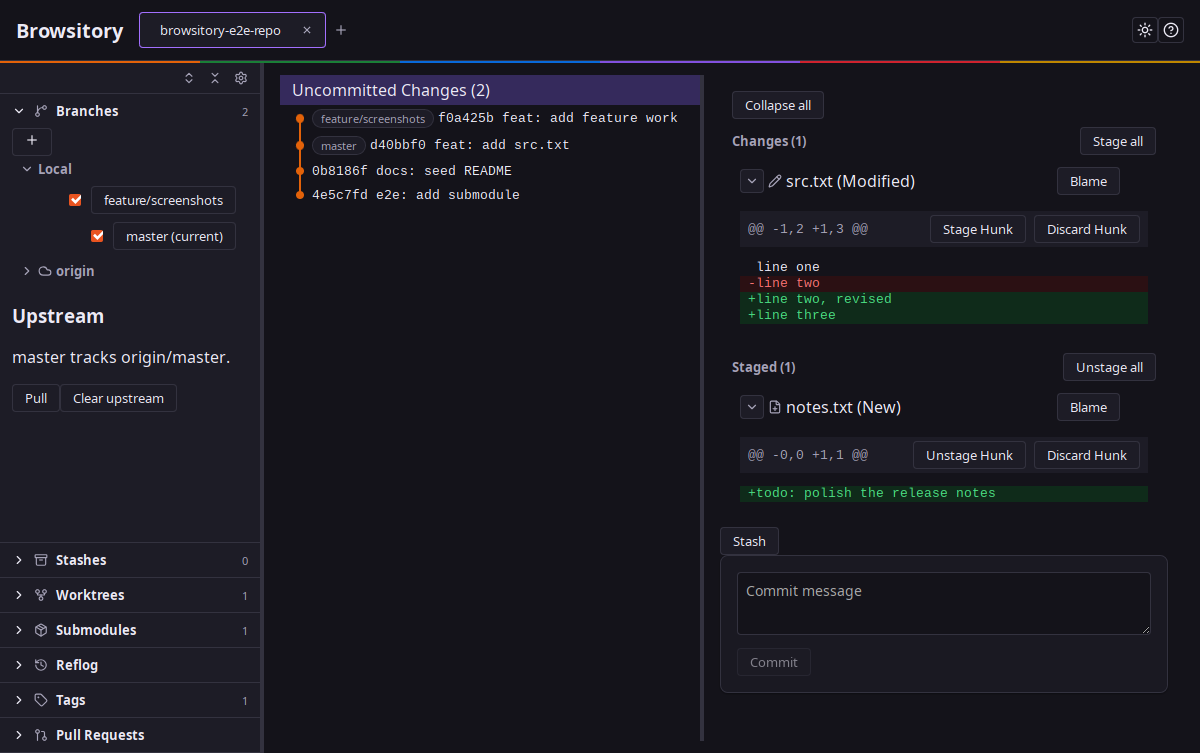
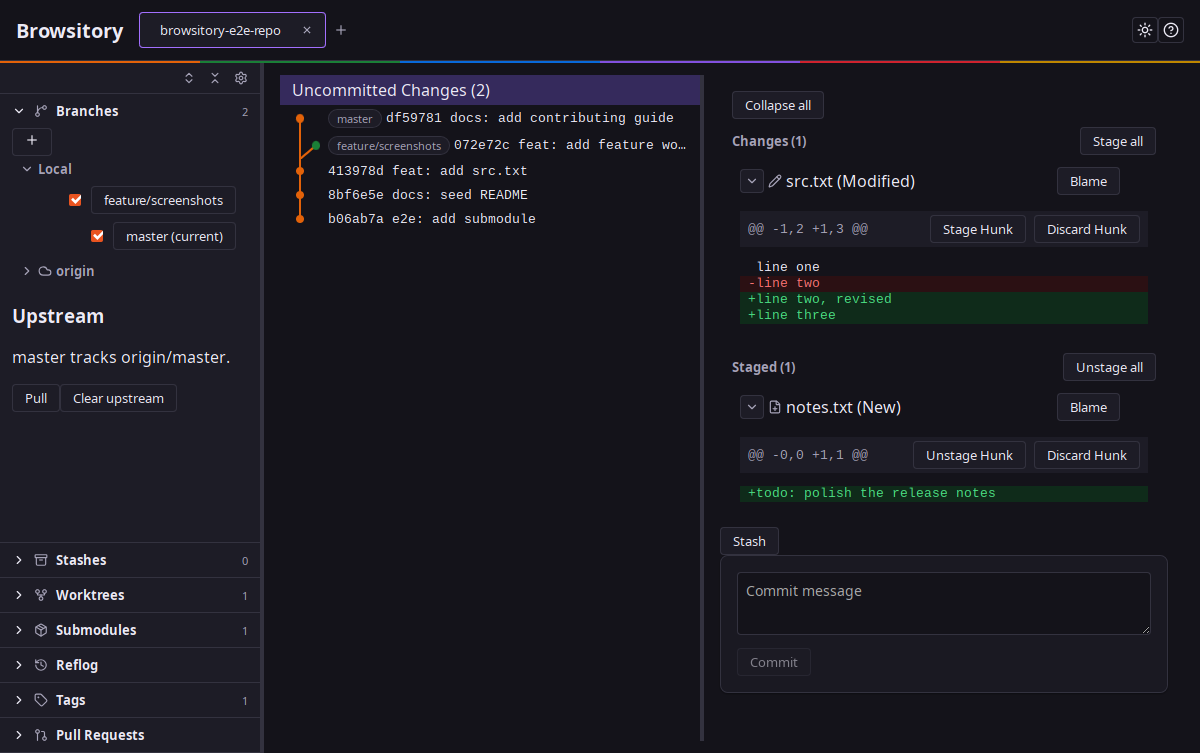
fix(frontend): keep commit-graph lane lines unbroken across forks
Three compounding bugs in CommitLaneGraphic: a lane-shifting connector
could be visually cut by a later-painted unrelated pass-through line,
a pass-through lane's straight continuation was dropped whenever
another commit's own connector happened to land on the same lane, and
splitting a straight pass-through into two segments at the row's
midpoint could leave a hairline rendering seam. Paint connectors last
and draw each non-own pass-through lane as one unbroken line instead.

Also gives the docs screenshot fixture a real fork (master advances
past the branch point too, instead of just being behind) and
regenerates docs/assets/*.png against the fix.

Claude-Session: https://claude.ai/code/session_01ShnM3w6NLLwfHoAeyDG5dL

Changed region(s): [[0.2467, 0.1527, 0.555, 0.3054]]

diff --git a/frontend/src/components/CommitLaneGraphic.test.tsx b/frontend/src/components/CommitLaneGraphic.test.tsx
@@ -96,6 +96,63 @@ describe("CommitLaneGraphic", () => {
     expect(circle?.getAttribute("opacity")).toBe("0.25");
   });
 
+  it("paints a lane-shifting connector line on top of an untouched pass-through line it crosses", () => {
+    // Own lane 0 connects down to lane 2, diagonally crossing lane 1's column. Lane 1 is an
+    // unrelated branch just passing through (no connection of its own here) so it also draws a
+    // plain vertical line through the same row. SVG paints later siblings on top of earlier
+    // ones with no blending, so whichever line is later in DOM order wins visually at the
+    // crossing point. The vertical pass-through must not be allowed to cut the diagonal in two.
+    const layout: CommitLayout = {
+      commitId: "a",
+      lane: 0,
+      parentConnections: [{ parentId: "p", lane: 2 }],
+      passThroughLanes: [0, 1, 2],
+    };
+
+    const { container } = render(<CommitLaneGraphic layout={layout} totalLanes={3} />);
+
+    const lines = Array.from(container.querySelectorAll("line"));
+    const diagonalIndex = lines.findIndex((line) => line.getAttribute("x1") !== line.getAttribute("x2"));
+    const untouchedLane1Index = lines.findIndex(
+      (line) =>
+        line.getAttribute("x1") === line.getAttribute("x2") &&
+        line.getAttribute("x1") === String(1 * 16 + 8) &&
+        line.getAttribute("y1") === "0" &&
+        line.getAttribute("y2") === "24",
+    );
+
+    expect(diagonalIndex).toBeGreaterThanOrEqual(0);
+    expect(untouchedLane1Index).toBeGreaterThanOrEqual(0);
+    expect(diagonalIndex).toBeGreaterThan(untouchedLane1Index);
+  });
+
+  it("draws an unrelated lane's pass-through as one unbroken line, not two segments meeting at the row's midpoint", () => {
+    // Lane 0 is another branch waiting on a parent this row's own commit (lane 1) also happens
+    // to connect to (a fork: two children of the same parent). Splitting lane 0's pass-through
+    // into an upper (0..mid) and lower (mid..bottom) segment — even with matching endpoints —
+    // can show a hairline rendering seam where the two independently-antialiased strokes meet,
+    // since nothing here (unlike this row's own dot) sits on top of that exact point to mask it.
+    // It must be a single line spanning the full row height instead.
+    const layout: CommitLayout = {
+      commitId: "a",
+      lane: 1,
+      parentConnections: [{ parentId: "shared-parent", lane: 0 }],
+      passThroughLanes: [0, 1],
+    };
+
+    const { container } = render(<CommitLaneGraphic layout={layout} totalLanes={2} />);
+
+    const fullHeightLane0 = Array.from(container.querySelectorAll("line")).find(
+      (line) =>
+        line.getAttribute("x1") === line.getAttribute("x2") &&
+        line.getAttribute("x1") === String(0 * 16 + 8) &&
+        line.getAttribute("y1") === "0" &&
+        line.getAttribute("y2") === "24",
+    );
+
+    expect(fullHeightLane0).not.toBeUndefined();
+  });
+
   it("dims nothing when no lane is hovered", () => {
     const layout: CommitLayout = {
       commitId: "a",

diff --git a/frontend/src/components/CommitLaneGraphic.tsx b/frontend/src/components/CommitLaneGraphic.tsx
@@ -28,18 +28,42 @@ export function CommitLaneGraphic({
   const width = totalLanes * LANE_WIDTH;
   const midY = ROW_HEIGHT / 2;
 
-  const upperLines = layout.passThroughLanes.map((lane) => (
+  // This row's own lane, if something above is already waiting for this commit, only needs its
+  // upper half drawn here — the lower half is whatever `connectionLines` below draws for it
+  // (straight, diagonal, or nothing, depending on this commit's own parents). Splitting that
+  // lower half off is fine because it always meets this row's own dot exactly at the seam,
+  // which masks the hairline gap two independently-antialiased strokes can leave where they abut.
+  const ownUpperLine = layout.passThroughLanes.includes(layout.lane) ? (
     <line
-      key={`up-${lane}`}
-      x1={laneCenterX(lane)}
+      key="up-own"
+      x1={laneCenterX(layout.lane)}
       y1={0}
-      x2={laneCenterX(lane)}
+      x2={laneCenterX(layout.lane)}
       y2={midY}
-      stroke={laneColor(lane)}
+      stroke={laneColor(layout.lane)}
       strokeWidth={2}
-      opacity={opacityFor(lane, hoveredLane)}
+      opacity={opacityFor(layout.lane, hoveredLane)}
     />
-  ));
+  ) : null;
+
+  // Every OTHER pass-through lane is just passing straight through this row, untouched by
+  // whatever this commit's own connections do — draw it as a single line spanning the full row
+  // height rather than splitting it at the midpoint. Nothing sits on top of that seam to mask
+  // it (unlike the own-lane case above), so a split there is a visible rendering gap.
+  const otherPassThroughLines = layout.passThroughLanes
+    .filter((lane) => lane !== layout.lane)
+    .map((lane) => (
+      <line
+        key={`through-${lane}`}
+        x1={laneCenterX(lane)}
+        y1={0}
+        x2={laneCenterX(lane)}
+        y2={ROW_HEIGHT}
+        stroke={laneColor(lane)}
+        strokeWidth={2}
+        opacity={opacityFor(lane, hoveredLane)}
+      />
+    ));
 
   const connectionLines = layout.parentConnections.map((conn) => (
     <line
@@ -54,24 +78,6 @@ export function CommitLaneGraphic({
     />
   ));
 
-  const untouchedPassThroughLines = layout.passThroughLanes
-    .filter(
-      (lane) =>
-        lane !== layout.lane && !layout.parentConnections.some((conn) => conn.lane === lane),
-    )
-    .map((lane) => (
-      <line
-        key={`through-${lane}`}
-        x1={laneCenterX(lane)}
-        y1={midY}
-        x2={laneCenterX(lane)}
-        y2={ROW_HEIGHT}
-        stroke={laneColor(lane)}
-        strokeWidth={2}
-        opacity={opacityFor(lane, hoveredLane)}
-      />
-    ));
-
   return (
     <svg
       width={width}
@@ -80,9 +86,9 @@ export function CommitLaneGraphic({
       preserveAspectRatio="none"
       style={{ flexShrink: 0 }}
     >
-      {upperLines}
+      {otherPassThroughLines}
+      {ownUpperLine}
       {connectionLines}
-      {untouchedPassThroughLines}
       <circle
         cx={laneCenterX(layout.lane)}
         cy={midY}

diff --git a/e2e/specs/screenshots.docs.ts b/e2e/specs/screenshots.docs.ts
@@ -29,7 +29,9 @@ describe("Browsitory screenshots (docs)", () => {
     fs.mkdirSync(SCREENSHOT_DIR, { recursive: true });
 
     // Base history: two commits on the default branch, a tag on the tip, then a feature branch
-    // with its own commit, back on the default branch — enough for the graph to show a fork.
+    // with its own commit — and the default branch ALSO advances past the fork point, so the
+    // two branches genuinely diverge (not just one strictly ahead of the other) and the graph
+    // renders real, separate lanes rather than a single straight line.
     fs.writeFileSync(
       path.join(E2E_REPO_PATH, "README.md"),
       "# Demo Project\n\nA sample repository used to capture Browsitory's documentation screenshots.\n",
@@ -50,6 +52,10 @@ describe("Browsitory screenshots (docs)", () => {
     git(["add", "feature.txt"]);
     git(["commit", "-m", "feat: add feature work"]);
     git(["checkout", defaultBranch]);
+
+    fs.writeFileSync(path.join(E2E_REPO_PATH, "CONTRIBUTING.md"), "See CONTRIBUTING for guidelines.\n");
+    git(["add", "CONTRIBUTING.md"]);
+    git(["commit", "-m", "docs: add contributing guide"]);
 
     // `resetFixtureRepo` in wdio.conf.ts clones the parent source, which already leaves an
     // "origin" remote pointing at a local tmp path — repoint it at a demo-looking URL for the

diff --git a/CHANGELOG.md b/CHANGELOG.md
@@ -34,6 +34,15 @@ The format follows [Keep a Changelog](https://keepachangelog.com/en/1.1.0/).
   external URL — which the extension host wires directly against VSCode APIs), including a
   transfer-progress JSON-RPC notification mechanism for fetch/push/pull.
 
+### Fixed
+
+- The commit graph's lane lines could render broken: a lane-shifting connector could be cut by
+  a later-painted, unrelated pass-through line crossing it, a pass-through lane's straight
+  continuation could be dropped entirely when another commit's connector happened to land on
+  the same lane, and even once both were fixed, a straight pass-through line split into two
+  segments at the row's midpoint could still show a hairline rendering seam. `CommitLaneGraphic`
+  now paints connectors last and draws each non-own pass-through lane as a single unbroken line.
+
 ## [0.2.0] - 2026-08-29
 
 ### Added
